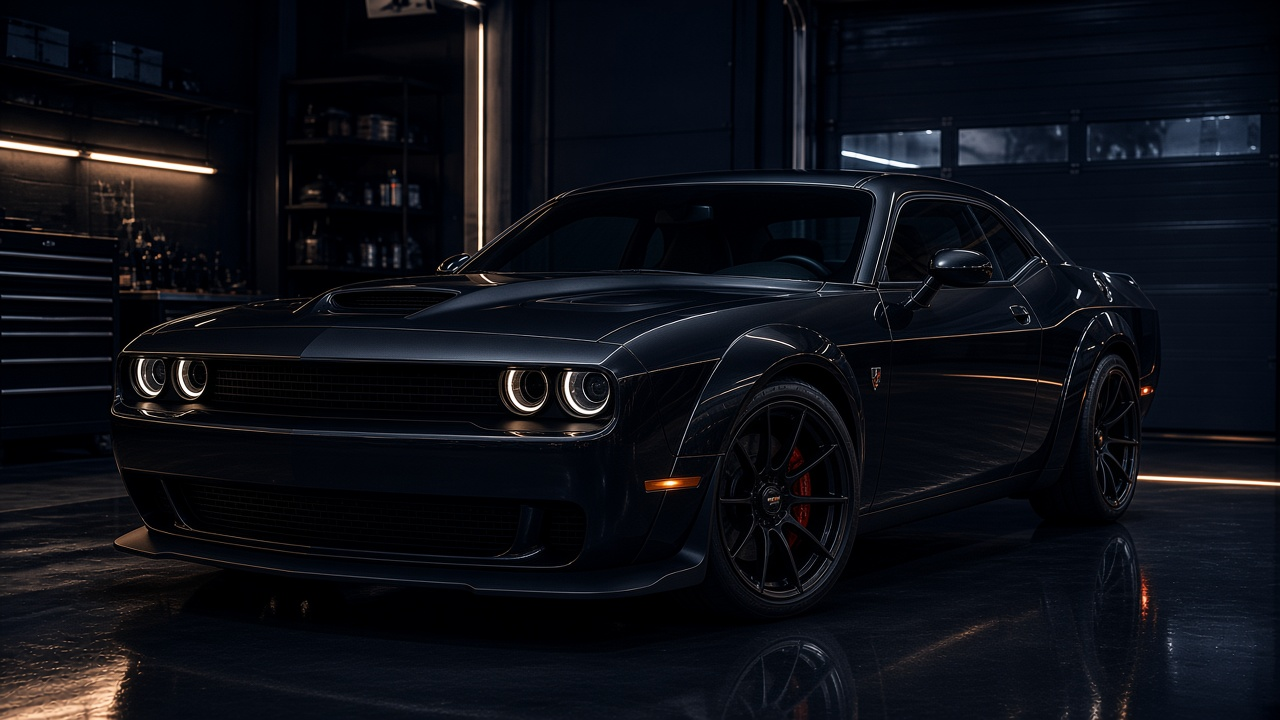
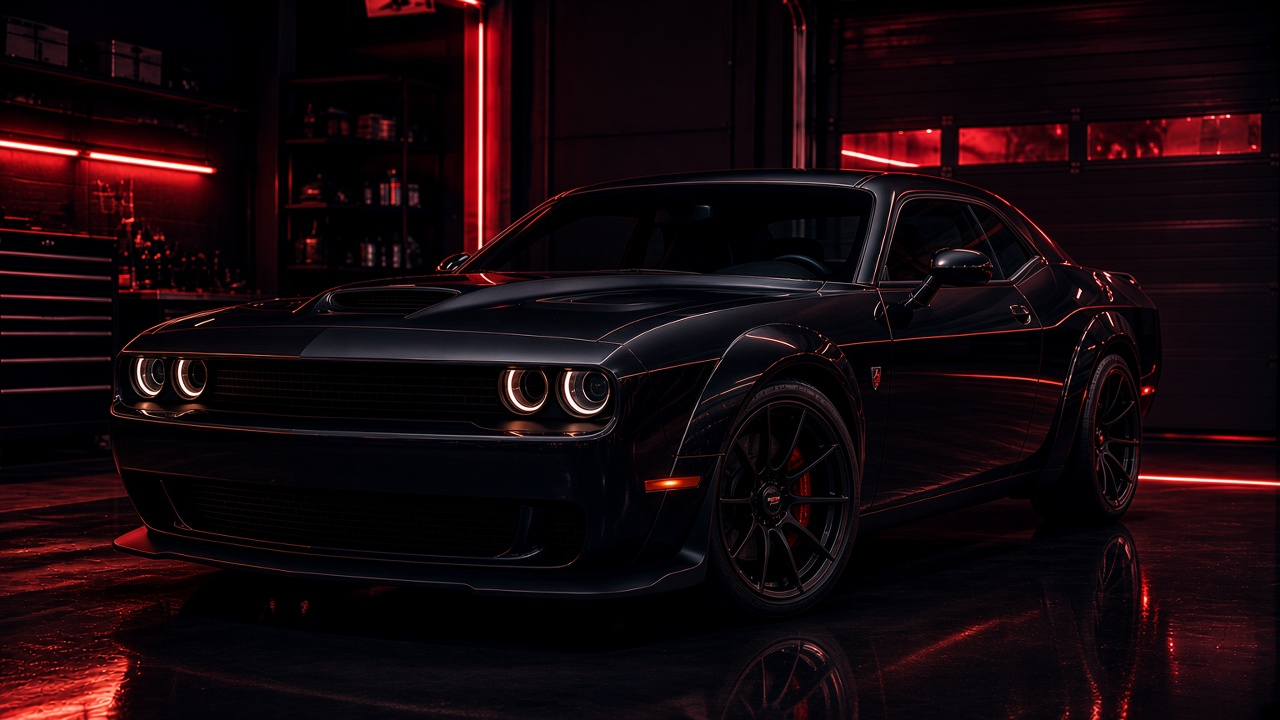
додж длбавил

diff --git a/src/routes/index.tsx b/src/routes/index.tsx
@@ -67,9 +67,11 @@ function Index() {
           height={900}
           className="absolute inset-0 h-full w-full scale-105 object-cover object-[62%_center] sm:object-[58%_center] md:object-center"
         />
-        <div className="absolute inset-0 bg-linear-to-r from-navy via-navy/88 to-navy/35 md:via-navy/85 md:to-navy/20" />
-        <div className="absolute inset-0 bg-linear-to-t from-navy via-navy/20 to-navy/75" />
+        <div className="absolute inset-0 bg-linear-to-r from-navy via-navy/88 to-navy/30 md:via-navy/82 md:to-navy/15" />
+        <div className="absolute inset-0 bg-linear-to-t from-navy via-navy/15 to-navy/70" />
+        <div className="pointer-events-none absolute inset-0 bg-linear-to-r from-transparent via-red-950/10 to-red-900/25 mix-blend-soft-light" />
         <div className="absolute -left-40 top-1/4 h-[32rem] w-[32rem] rounded-full bg-gold/10 blur-[140px]" />
+        <div className="absolute -right-24 top-1/3 h-72 w-72 rounded-full bg-red-600/15 blur-[120px]" />
 
         <div className="relative mx-auto flex min-h-screen max-w-7xl flex-col justify-center px-4 pb-20 pt-28 sm:px-6 sm:pb-28 sm:pt-36">
           <div data-reveal className="reveal flex flex-wrap items-center gap-3 text-gold sm:gap-4">
